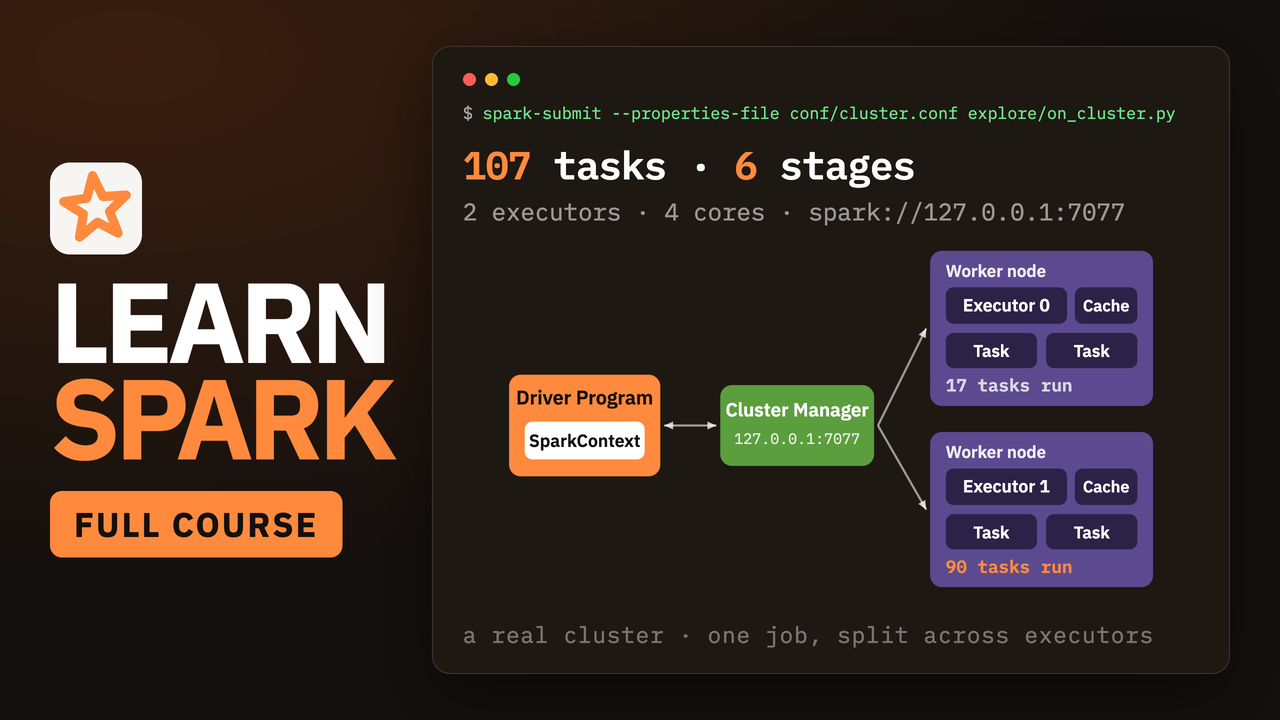
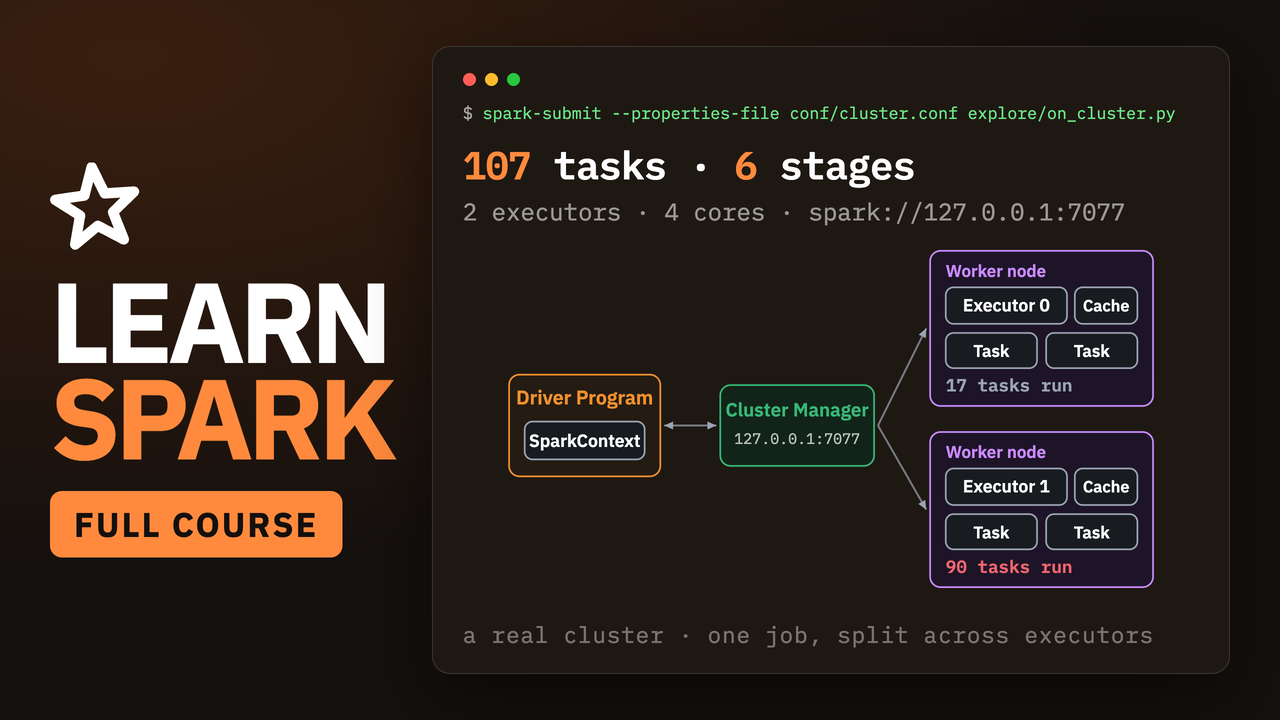
update'

Changed region(s): [[0.7188, 0.3361, 0.9062, 0.825], [0.375, 0.5194, 0.6875, 0.6722], [0.0312, 0.2139, 0.125, 0.3667]]

diff --git a/output/thumbnails/README.md b/output/thumbnails/README.md
@@ -18,8 +18,11 @@ to the project's own site, and separately forbids applying a "confusingly simila
 which rules out drawing our own fan shape as much as copying theirs. The *name* "Apache Spark"
 is fine nominatively, in the title and the narration; the mark is not.
 
-So the tile is a drawn glyph of our own: a plain five-pointed star — a spark — outlined on a
-light tile. It resembles nobody's mark, carries no ASF identity and claims no endorsement.
+So the mark is a drawn glyph of our own: a plain five-pointed star — a spark — outlined and
+standing straight on the background, with no tile behind it. (A white tile would have been the
+brightest object on the cover and would have pulled the eye off the headline.) It is white on
+the dark themes and the accent colour on the light one, where white would vanish. It resembles
+nobody's mark, carries no ASF identity and claims no endorsement.
 
 **The sister data-science repo reaches the opposite conclusion, correctly:** it carries the real
 pandas logo, because pandas publishes its logo under BSD-3-Clause — a copyright licence that
